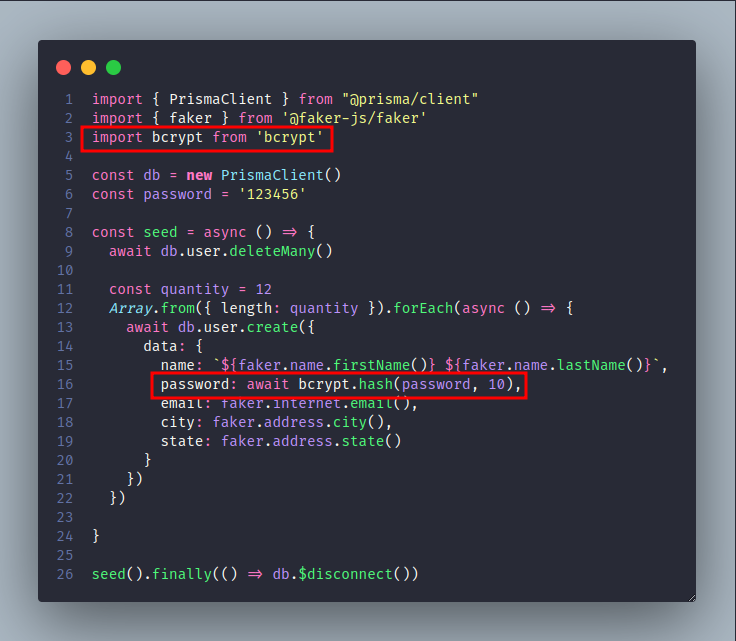
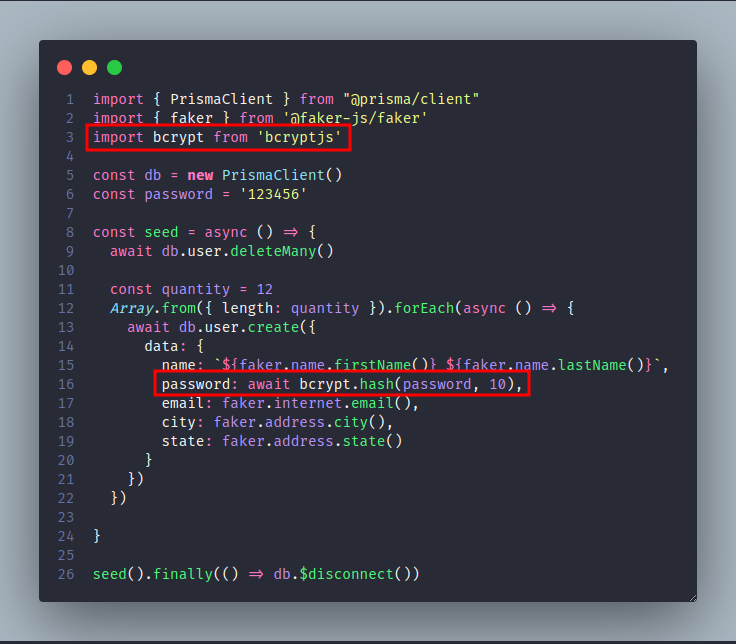
feat: create auth.api that validate user credentials

diff --git a/07-como-implementar-login-e-conteudo-protegido/app/routes/login.tsx b/07-como-implementar-login-e-conteudo-protegido/app/routes/login.tsx
@@ -1,32 +1,18 @@
 import type { ActionArgs, LinksFunction } from "@remix-run/node";
 import { performMutation } from "remix-forms";
 
-import { z } from "zod"
 import { makeDomainFunction } from 'domain-functions'
 
 import { Form } from "~/remix-forms"
 
 import formsStyles from '~/styles/forms.css'
-
-/**
- * Validate form schema
- * https://remix-forms.seasoned.cc/get-started#:~:text=%7B%20Form%20%7D-,Write%20your%20schema,-Compose%20a%20zod
- */
-const loginInputSchema = z.object({
-  email: z.string().min(1, { message: 'Required field' }).email({ message: 'Invalid e-mail' }).trim(),
-  password: z.string().min(1, { message: 'Required field' })
-})
-
-/**
- * Form type
- */
-type LoginInput = z.infer<typeof loginInputSchema>
+import { login, loginInputSchema, type LoginInput } from "~/features/Auth";
 
 /**
  * Form initial values
  */
 const values: LoginInput = {
-  email: 'Lindsey41@hotmail.com',
+  email: 'Morris41@hotmail.com',
   password: '123456'
 }
 
@@ -45,7 +31,7 @@ export const links: LinksFunction = () => {
  * https://remix-forms.seasoned.cc/get-started#:~:text=Create%20your%20mutation
  */
 const mutation = makeDomainFunction(loginInputSchema)(async (values) => {
-  return values;
+  return login(values);
 })
 
 

diff --git a/07-como-implementar-login-e-conteudo-protegido/app/features/Auth/auth.api.ts b/07-como-implementar-login-e-conteudo-protegido/app/features/Auth/auth.api.ts
@@ -1,0 +1,41 @@
+import bcrypt from 'bcryptjs'
+import { z } from "zod"
+import { db } from "~/db"
+
+/**
+ * Validate form schema
+ * https://remix-forms.seasoned.cc/get-started#:~:text=%7B%20Form%20%7D-,Write%20your%20schema,-Compose%20a%20zod
+ */
+export const loginInputSchema = z.object({
+  email: z.string().min(1, { message: 'Required field' }).email({ message: 'Invalid e-mail' }).trim(),
+  password: z.string().min(1, { message: 'Required field' })
+})
+
+/**
+ * Form type
+ */
+export type LoginInput = z.infer<typeof loginInputSchema>
+
+/**
+ * Login function
+ * @param values 
+ */
+export const login = async (values: LoginInput) => {
+  const user = await db.user.findUnique({ 
+    where: {
+      email: values.email
+    }
+  })
+  
+  if (!user) {
+    throw "Invalid user or password"
+  }
+
+  const isValidPassword = bcrypt.compareSync(values.password, user.password)
+
+  if (!isValidPassword) {
+    throw "Invalid user or password"
+  }
+
+  return user
+}

diff --git a/07-como-implementar-login-e-conteudo-protegido/prisma/seed.ts b/07-como-implementar-login-e-conteudo-protegido/prisma/seed.ts
@@ -1,6 +1,6 @@
 import { PrismaClient } from "@prisma/client"
 import { faker } from '@faker-js/faker'
-import bcrypt from 'bcrypt'
+import bcrypt from 'bcryptjs'
 
 const db = new PrismaClient()
 const password = '123456'

diff --git a/07-como-implementar-login-e-conteudo-protegido/app/features/Auth/index.ts b/07-como-implementar-login-e-conteudo-protegido/app/features/Auth/index.ts
@@ -1,0 +1,1 @@
+export * from './auth.api'

diff --git a/07-como-implementar-login-e-conteudo-protegido/README.md b/07-como-implementar-login-e-conteudo-protegido/README.md
@@ -19,8 +19,8 @@
 ## 3 - Vamos instalar uma lib para realizar a criptografia das senhas
 
 ```sh
-  npm i bcrypt
-  npm i -D @types/bcrypt
+  npm i bcryptjs
+  npm i -D @types/bcryptjs
 ```
 
 ## 4 - Agora vamos ajustar o arquivo **"prisma/seed.ts"** para inserir o novo campo "password" definindo uma senha padrão.
@@ -32,3 +32,13 @@
 ```sh
   npm db:seed
 ```
+
+## 5 - Criar o **"auth.api.ts"** dentro da pasta **"app/features/Auth"** que fará o acesso a base de dados para validar os dados do usuário.
+
+#### Ao criar esse arquivo, vamos mover para ele o schema e o type relacionado ao schema removendo-os do arquivo da rota
+
+![auth-03.png](documentation/auth-03.png)
+
+#### Na rota **"app/routes/login"** vamos chamar função **"login"** criada acima na função **"mutation"**
+
+![auth-04.png](documentation/auth-04.png)
